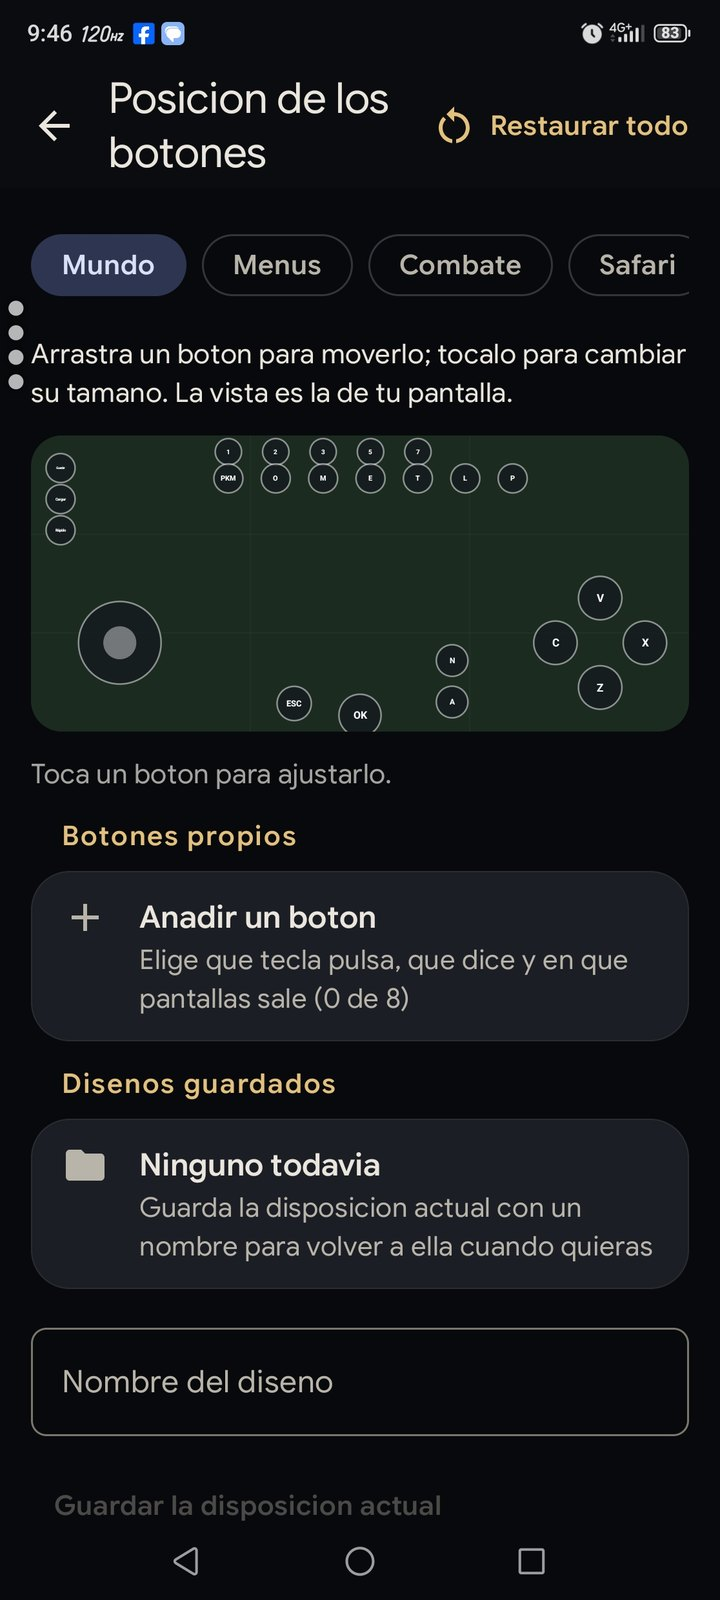
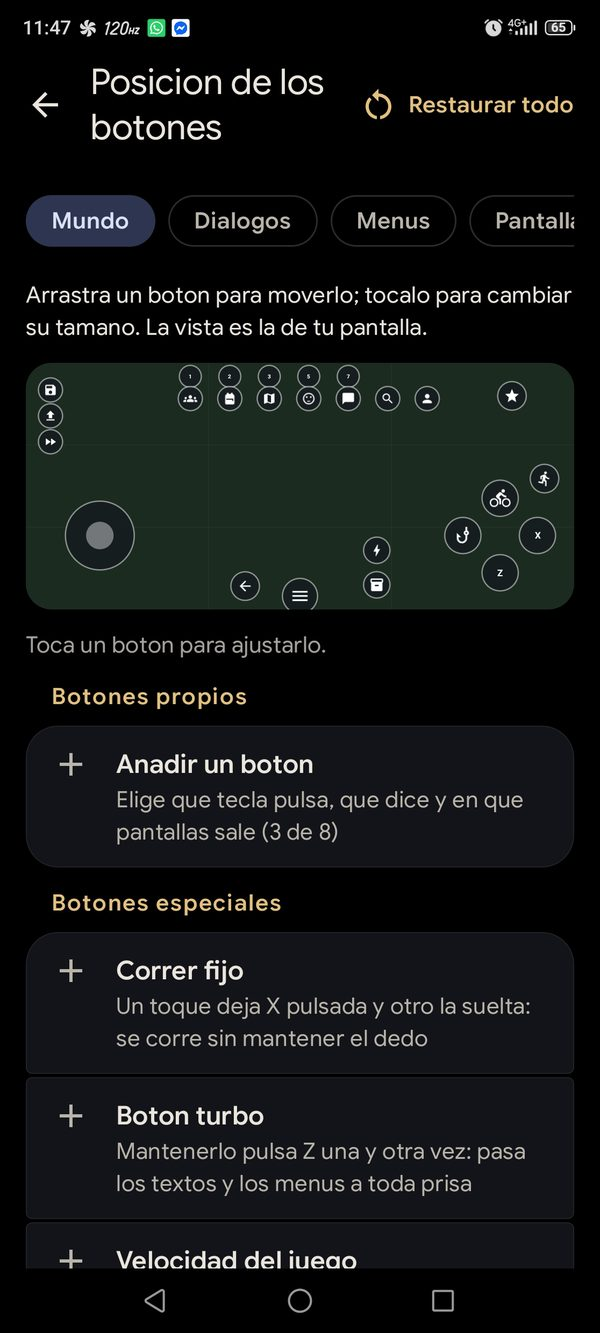
README: capturas nuevas de la 0.7.2 y documentacion de las funciones recientes

diff --git a/README.md b/README.md
@@ -51,32 +51,54 @@ adaptados a cada pantalla, gestión de partidas, ajustes, actualizaciones y regi
 Este proyecto parte del port de [@Klisee](https://github.com/Klisee)
 ([pokemon-reloaded-android](https://github.com/Klisee/pokemon-reloaded-android)) y lo desarrolla en una
 línea propia, con otro paquete (`com.ahjin.pr`), firma propia, nueva interfaz y numerosas mejoras
-de audio, controles, rendimiento y extras.
+de audio, controles, rendimiento y extras. Los controles táctiles cambian solos según la pantalla
+(mochila, mapa, equipo, combate…) y muestran solo los botones que hacen falta.
 
 > **El juego no está incluido.** El repositorio no contiene ningún recurso de Pokémon Reloaded; lo
 > importas tú a partir del `.zip` oficial.
 
 ## Capturas
 
-Capturas reales en un RedMagic 8S Pro. En las de juego se ve el indicador de rendimiento
-(FPS, milisegundos por fotograma y memoria) activado.
+Capturas reales de la versión **0.7.2** en un RedMagic 8S Pro. En las de juego se ve el indicador de
+rendimiento (FPS, milisegundos por fotograma y memoria) activado.
+
+### En el juego
 
 <table>
   <tr>
-    <td width="50%"><img src="docs/screenshots/juego-mundo.jpg" alt="Exploración con joystick y botones nativos"><br><sub><b>Exploración.</b> Joystick de 8 direcciones y botones nativos translúcidos.</sub></td>
-    <td width="50%"><img src="docs/screenshots/juego-combate.jpg" alt="Combate con la capa táctil de combate"><br><sub><b>Combate.</b> La capa táctil cambia sola y muestra solo lo necesario.</sub></td>
+    <td width="50%"><img src="docs/screenshots/juego-mundo.jpg" alt="Exploración con joystick, botones nativos e iconos"><br><sub><b>Exploración.</b> Joystick de 8 direcciones, botones translúcidos con el arte del propio juego y los accesos del sistema (guardar, cargar y avance rápido) a la izquierda.</sub></td>
+    <td width="50%"><img src="docs/screenshots/juego-combate.jpg" alt="Combate con la capa táctil de combate"><br><sub><b>Combate.</b> Atacar con Z X C V, la rueda <b>SEL</b> para cambiar de Pokémon, bola, huir y reloj. El botón de la derecha abre la tabla de tipos.</sub></td>
   </tr>
   <tr>
-    <td width="50%"><img src="docs/screenshots/juego-laboratorio.jpg" alt="Interior del laboratorio con escala de píxeles perfectos"><br><sub><b>Píxeles perfectos.</b> Escala entera para un píxel nítido y uniforme.</sub></td>
-    <td width="50%"><img src="docs/screenshots/juego-dialogo.jpg" alt="Diálogo con el botón de acción contextual"><br><sub><b>Diálogos.</b> Solo aparece el botón de acción, sin ocupar la pantalla.</sub></td>
+    <td width="50%"><img src="docs/screenshots/juego-tabla-tipos.jpg" alt="Tabla de tipos sobre el combate"><br><sub><b>Tabla de tipos.</b> La imagen de efectividades del propio juego, con el juego detenido; un toque la cierra.</sub></td>
+    <td width="50%"><img src="docs/screenshots/juego-equipo.jpg" alt="Pantalla del equipo Pokémon con joystick, Z, X y C"><br><sub><b>Equipo Pokémon.</b> Solo joystick, <b>Z</b>, <b>X</b> y <b>C</b> (ordenar): nada del mapa encima.</sub></td>
+  </tr>
+  <tr>
+    <td width="50%"><img src="docs/screenshots/juego-mochila.jpg" alt="Mochila con joystick, Z, X y C"><br><sub><b>Mochila.</b> Misma idea: los botones del mundo desaparecen y quedan los que se usan.</sub></td>
+    <td width="50%"></td>
   </tr>
 </table>
 
+### La aplicación
+
 <table>
   <tr>
-    <td width="33%"><img src="docs/screenshots/ajustes-controles.jpg" alt="Ajustes: aspecto de los controles"><br><sub><b>Ajustes.</b> Aspecto de los controles y tema «Obsidiana y oro».</sub></td>
-    <td width="33%"><img src="docs/screenshots/editor-botones.jpg" alt="Editor de posición de los botones"><br><sub><b>Editor de controles.</b> Posición y tamaño por pantalla, botones propios y diseños guardados.</sub></td>
-    <td width="33%"><img src="docs/screenshots/ajustes-resolucion.jpg" alt="Ajustes: vibración y resolución"><br><sub><b>Vibración y resolución.</b> Incluye la escala de píxeles perfectos.</sub></td>
+    <td width="25%"><img src="docs/screenshots/app-inicio.jpg" alt="Pantalla de inicio de la app"><br><sub><b>Inicio.</b> Noticias del juego, <b>Jugar</b>, descargar o importar el .zip.</sub></td>
+    <td width="25%"><img src="docs/screenshots/ajustes-juego.jpg" alt="Ajustes: juego y partidas"><br><sub><b>Juego y partidas.</b> Versión instalada, espacio, <i>Mis partidas</i> y copias de seguridad.</sub></td>
+    <td width="25%"><img src="docs/screenshots/ajustes-controles.jpg" alt="Ajustes: aspecto de los controles"><br><sub><b>Controles.</b> Aspecto nativo o pixel art, iconos en los botones y posición y tamaño.</sub></td>
+    <td width="25%"><img src="docs/screenshots/editor-botones.jpg" alt="Editor de posición de los botones"><br><sub><b>Editor.</b> Una pestaña por pantalla (Mundo, Diálogos, Menús, Pantallas…), botones propios y especiales.</sub></td>
+  </tr>
+  <tr>
+    <td width="25%"><img src="docs/screenshots/extras-guardado.jpg" alt="Extras: guardado rápido"><br><sub><b>Guardado rápido.</b> Tres ranuras, con fecha y tamaño.</sub></td>
+    <td width="25%"><img src="docs/screenshots/extras-velocidad.jpg" alt="Extras: velocidad del juego"><br><sub><b>Velocidad.</b> De cámara lenta ×0,5 a avance rápido ×4, con sonido silenciable.</sub></td>
+    <td width="25%"><img src="docs/screenshots/extras-imagen.jpg" alt="Extras: imagen"><br><sub><b>Imagen.</b> Suavizado, rejilla LCD, líneas CRT y respeto de la cámara.</sub></td>
+    <td width="25%"><img src="docs/screenshots/extras-mando.jpg" alt="Extras: vibración y rendimiento"><br><sub><b>Mando y rendimiento.</b> Vibración, indicador de FPS y ahorro de batería.</sub></td>
+  </tr>
+  <tr>
+    <td width="25%"><img src="docs/screenshots/ajustes-resolucion.jpg" alt="Ajustes: resolución y extras"><br><sub><b>Resolución.</b> Rellenar, mantener la proporción o píxeles perfectos.</sub></td>
+    <td width="25%"><img src="docs/screenshots/ajustes-apariencia.jpg" alt="Ajustes: apariencia y colores"><br><sub><b>Apariencia.</b> Oscuro, claro o sistema; acento de color y negro puro AMOLED.</sub></td>
+    <td width="25%"><img src="docs/screenshots/ajustes-ayuda.jpg" alt="Ajustes: actualizaciones y ayuda"><br><sub><b>Actualizaciones y ayuda.</b> Versión, guía de uso, informe de diagnóstico y logs.</sub></td>
+    <td width="25%"></td>
   </tr>
 </table>
 
@@ -107,7 +129,7 @@ Si ya jugabas en PC, tu partida entra desde **Ajustes → Partidas → Importar*
 
 - **Se adaptan al juego.** La capa táctil cambia según lo que ocurre en pantalla (mapa, combate,
   diálogos, menús, elecciones, Zona Safari), de modo que cada situación muestra solo los botones
-  que hacen falta.
+  que hacen falta. Detalle en [Botones según la pantalla](#botones-según-la-pantalla).
 - **Aspecto nativo.** Botones translúcidos con borde suave, iconos y letras vectoriales,
   animación al pulsar y brillo del color de cada botón. Se puede volver al pixel art clásico del juego.
 - **Iconos según la función.** Cada botón del juego muestra lo que hace en vez de su letra:
@@ -115,19 +137,49 @@ Si ya jugabas en PC, tu partida entra desde **Ajustes → Partidas → Importar*
   El icono sigue a la situación (la tecla `M` es el mapa fuera de combate y la megaevolución en combate) y en
   combate `Z X C V` conservan su letra, porque ahí son los cuatro ataques. Se puede volver a las letras en
   **Ajustes → Aspecto de los controles → Iconos en los botones**.
+- **Botones especiales** (se añaden en el editor): **correr fijo** (un toque deja `X` pulsada y otro la suelta),
+  **turbo** (mantenerlo pulsa `Z` unas 7 veces por segundo), **velocidad del juego** (pasa de una velocidad a la
+  siguiente) y **tabla de tipos**. Los botones propios pueden ser normales, turbo o fijos.
 - **Joystick de 8 direcciones** en todo el juego, con diagonales con histéresis, zona muerta
   ajustable y modo flotante que sigue al pulgar.
 - **Editor de posiciones y tamaños.** Arrastra, redimensiona u oculta cada botón por pantalla del
   juego. Admite **diseños guardados** con nombre.
-- **Botones propios:** hasta 8, con la tecla, el texto de 3 letras **o uno de 31 iconos** (los de arriba,
-  flechas, estrella, corazón, pausa…) y las pantallas que elijas.
+- **Botones propios:** hasta 8, con la tecla, el texto de 3 letras **o uno de 32 iconos** (los de arriba,
+  flechas, estrella, corazón, pausa, tabla…) y las pantallas que elijas.
 - **Preajustes de disposición:** Estándar, Zurdo, Compacto, Grande y Zurdo compacto, con
   confirmación antes de aplicarlos. No tocan los botones propios ni los que hayas ocultado.
 - **Respuesta táctil cuidada:** deslizar de un botón a otro sin levantar el dedo, vibración
   ajustable (apagada, ligera, fuerte), difuminado de los botones cuando no se usan y bordes de la
   pantalla excluidos del gesto «atrás» del sistema.
+- **Tamaño y opacidad global** de los botones, joystick flotante y zona muerta del joystick desde
+  **Ajustes**.
 - **Mandos físicos:** detección automática, reasignación de teclas, vibración y atajos propios:
   guardado rápido, cargar, avance rápido, mostrar u ocultar los FPS y cambiar de ranura de guardado rápido.
+
+### Botones según la pantalla
+
+Cada pantalla enseña solo lo que sirve en ella. La app lee del juego en qué pantalla está (la sala, el
+tipo de ventana que dibuja y los objetos que ha creado, como una tienda) y cambia la capa táctil sola.
+
+| Pantalla | Botones |
+| --- | --- |
+| **Mundo** | Joystick, `Z`, `X`, `C` (caña), `V` (bici), números `1 2 3 5 7` (MO), equipo, mochila, mapa, `E`, `T`, `L`, `P`, `A`, `N`, OK, ESC y los accesos del sistema |
+| **Combate** | Joystick, ataques `Z X C V`, `B` (bola), `S` (cambiar), rueda **SEL** (elegir Pokémon), equipo, mochila, mega, huir, reloj, `L`, `P`, OK, ESC y los accesos del sistema |
+| **Zona Safari** | Como el mundo, más la bola, sin los ataques |
+| **Mochila, equipo, Pokédex, mapa y misiones** | Joystick, `Z`, `X` y `C` (ordena la lista, o mueve el cursor del mapa) |
+| **Movimientos, habilidades e información del Pokémon, entrenador, opciones, móvil, huevos, logros y torneo** | Joystick, `Z` y `X` |
+| **Tiendas** (comprar, vender, canjear) **y PC de objetos** | Joystick, `Z` y `X` |
+| **Diálogos** | Solo el botón que avanza (`Z`), para no tapar el texto |
+| **Listas de opciones** | Joystick y `X`; las entradas se tocan directamente |
+| **Preguntas Sí/No, caja del PC, teclado y menús del título** | Ninguno: se tocan directamente |
+| **Elegir personaje** | Dos flechas, OK y `X` |
+| **Preferencias del juego nuevo** | Joystick, `Z` y `X` |
+
+Los botones de cada grupo se colocan en **Posición y tamaño de los botones**, una pestaña por grupo
+(**Mundo**, **Diálogos**, **Menús**, **Pantallas**, **Combate**, **Safari**…). Un botón tiene una sola posición:
+si lo mueves en una pestaña se mueve en todas en las que aparece.
+
+Las minijuegos (casino, cartas, tragaperras) conservan de momento los botones del mundo.
 
 ### Audio
 
@@ -140,7 +192,8 @@ Si ya jugabas en PC, tu partida entra desde **Ajustes → Partidas → Importar*
 
 ### Imagen
 
-- **Escala de píxeles perfectos** (múltiplos enteros), para un píxel nítido y uniforme.
+- **Resolución:** rellenar la pantalla, mantener la proporción del PC con bandas o **píxeles perfectos**
+  (múltiplos enteros, para un píxel nítido y uniforme).
 - Filtro suave opcional, **rejilla LCD** y **líneas CRT**.
 - Respeto de la muesca y la cámara frontal.
 
@@ -151,9 +204,19 @@ Se configuran en **Ajustes → Extras**.
 | Extra | Descripción |
 | --- | --- |
 | **Guardado rápido** | Tres ranuras independientes del guardado del juego. Guardar es un toque; cargar exige pulsar dos veces seguidas, para no perder progreso por error. El archivo se escribe aparte y se renombra, de modo que un fallo nunca estropea la ranura anterior. La música en bucle vuelve a empezar al cargar. |
-| **Avance rápido** | x2, x3 o x4, con sonido silenciable. Solo acorta la espera entre fotogramas: la lógica del juego no cambia. Se desactiva solo si el móvil se calienta mucho. |
+| **Velocidad del juego** | **Cámara lenta** ×0,5 y ×0,75 y **avance rápido** ×1,5, ×2, ×3 y ×4, con el sonido silenciable fuera de la velocidad normal. Solo cambia la espera entre fotogramas: la lógica del juego no cambia. Se puede fijar en Extras o alternar con un botón especial. Si el móvil no llega, va a la máxima que pueda; el avance rápido se desactiva solo si se calienta mucho. |
+| **Tabla de tipos** | Botón especial para combate que muestra la imagen de efectividades **del propio juego** sobre la partida. El juego se **detiene** mientras está abierta (el rival no ataca) y se cierra con un toque en la pantalla o con cualquier botón del mando. |
+| **Correr fijo** | Botón especial: un toque deja `X` pulsada y otro la suelta. Se libera solo al abrir un menú, un diálogo o un combate. |
+| **Botón turbo** | Botón especial: mientras lo mantienes, pulsa `Z` unas 7 veces por segundo (textos y menús a toda prisa). |
+| **Atajos de Android** | Al mantener pulsado el icono de la app: **Continuar** (abre el juego directamente) y **Guardado rápido** (abre el juego y carga el guardado rápido; si el juego ya estaba abierto, solo lo trae al frente). |
+| **Imagen** | Suavizado opcional, rejilla LCD, líneas CRT y respeto de la cámara frontal. |
+| **Botones táctiles** | Ocultarse solos tras unos segundos sin tocar, vibración (apagada, ligera o fuerte). |
 | **Indicador de rendimiento** | FPS, tiempo por fotograma y memoria residente en una esquina. |
-| **Ahorro de batería** | Manual, o automático con el ahorro del sistema o el móvil caliente. |
+| **Ahorro de batería** | Desactivado, siempre, o automático con el ahorro del sistema o el móvil caliente. |
+
+Las funciones de la 0.7 (velocidad ajustable, tabla de tipos, correr fijo, turbo y atajos) son
+**opcionales**: los botones especiales se añaden desde **Ajustes → Controles → Posición y tamaño de los
+botones → Botones especiales**, y sin ellos el juego se comporta como siempre.
 
 ### Apariencia de la aplicación
 
@@ -228,7 +291,7 @@ caché de sprites en disco, que habría sido más lenta que regenerarlos.
 
 > **Avance rápido.** El juego vigila el reloj real (`CheckDaySpeed`, que ejecuta
 > `obj_DayNightControl`) y baja `room_speed` si considera que el tiempo pasa demasiado deprisa, que es
-> justo lo que ve cuando se avanza rápido. Para que x2, x3 y x4 signifiquen lo que dicen, durante el
+> justo lo que ve cuando se avanza rápido. Para que ×2, ×3 y ×4 signifiquen lo que dicen, durante el
 > avance rápido la room recupera la velocidad con la que fue diseñada.
 
 ## Arquitectura
@@ -409,11 +472,13 @@ Cada versión, con su APK, está en [Releases](../../releases).
 - Desarrollado y probado en un **RedMagic 8S Pro** (Snapdragon 8 Gen 2, Android 13, arm64).
 - El motor de **32 bits (armeabi-v7a)** se compila y empaqueta, pero no se ha probado en ningún móvil de 32 bits.
 - El **guardado rápido** es una función experimental. Si algo falla, el log lo registrará.
-- La versión **0.6.0** está verificada con pruebas automáticas y compilación, pero todavía no con
-  uso real en el móvil: las copias de seguridad, los iconos de botones y los atajos de mando son
-  nuevos. Si algo no va bien, comparte el informe de diagnóstico.
-- La versión **0.7.2** (botones por pantalla, además de lo de la 0.7.0 y la 0.7.1)
-  está verificada con pruebas automáticas y compilación, pero todavía no en el móvil.
+- Los **botones por pantalla** de la 0.7.2 se han comprobado en el móvil con la mochila y el equipo; las
+  demás pantallas (tiendas, Pokédex, móvil, misiones…) se detectan por los datos del propio juego, pero
+  no se han recorrido una a una. Si alguna enseña botones de más o de menos, abre un log desde
+  **Ajustes → Logs**: registra la pantalla que detecta en cada momento.
+- Los **atajos de Android** y la tabla de tipos se corrigieron en la 0.7.1; si algo falla, comparte el
+  informe de diagnóstico.
+- Las minijuegos (casino, cartas, tragaperras) todavía no tienen botones propios.
 - La app sigue en desarrollo y puede fallar. Si ocurre, guarda un log desde **Ajustes → Logs** y
   abre un [issue](../../issues) con él.
 
@@ -428,7 +493,7 @@ Problemas ya resueltos en el camino:
 Ideas para más adelante:
 
 - Imágenes propias (pixel art) para más botones táctiles.
-- Más ajustes de rendimiento para móviles modestos.
+- Botones propios para las minijuegos.
 - Revisar la compatibilidad con mandos de todo tipo.
 
 ## Licencia y créditos
